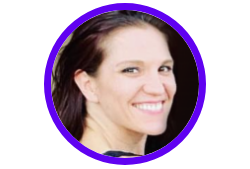
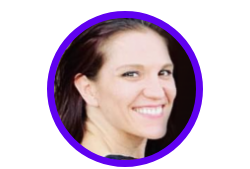
updates

Changed region(s): [[0.168, 0.0, 0.84, 1.0], [0.364, 0.5325, 0.392, 0.5621]]

diff --git a/css/style.css b/css/style.css
@@ -25,7 +25,7 @@ header {
     display: block;
     width: 100%;
     padding-top: 1.5em;
-    padding-bottom: 1.5em;
+    padding-bottom: .5em;
 }
 
 a:link, a:active, a:visited, a:hover {
@@ -212,7 +212,7 @@ footer {
     font-size: .8em;
     color: #000;
     background-color: #fff;
-    padding: 0em 0em 5em 0em;
+    padding: 0em 0em 6em 0em;
     font-weight: 300;
     margin: 0 auto;
     line-height: 2em;

diff --git a/emily.html b/emily.html
@@ -54,7 +54,7 @@
 		<header class="clearfix">
 			<h3>Meet Emily</h3>
 			<div class="twenty-images">
-				<img src="images/ekern-avatar-150x150.png" alt="emily icon">
+				<img src="images/ekern-avatar-150x150.svg" alt="emily icon">
 			</div>
 		</header>
 
